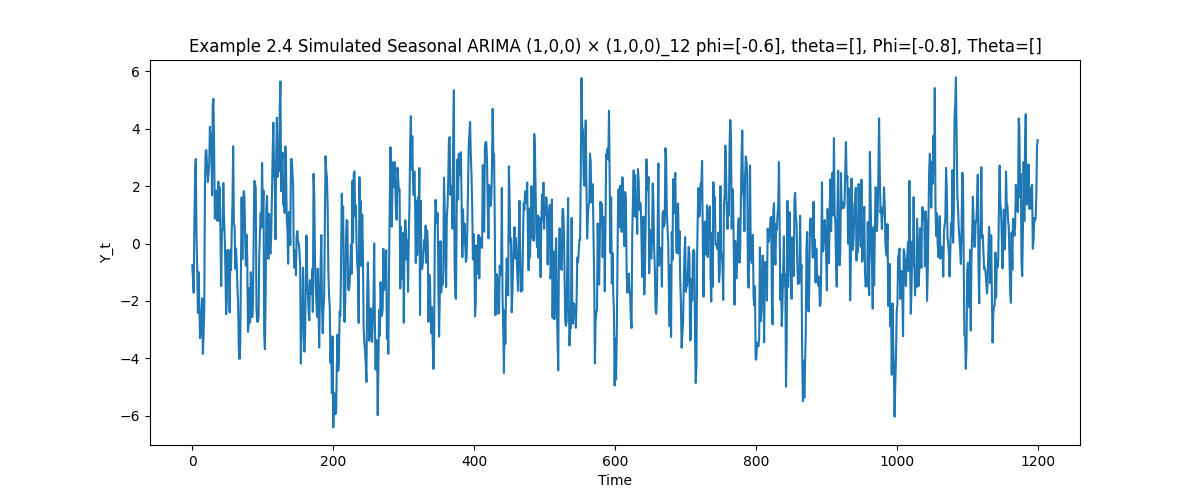
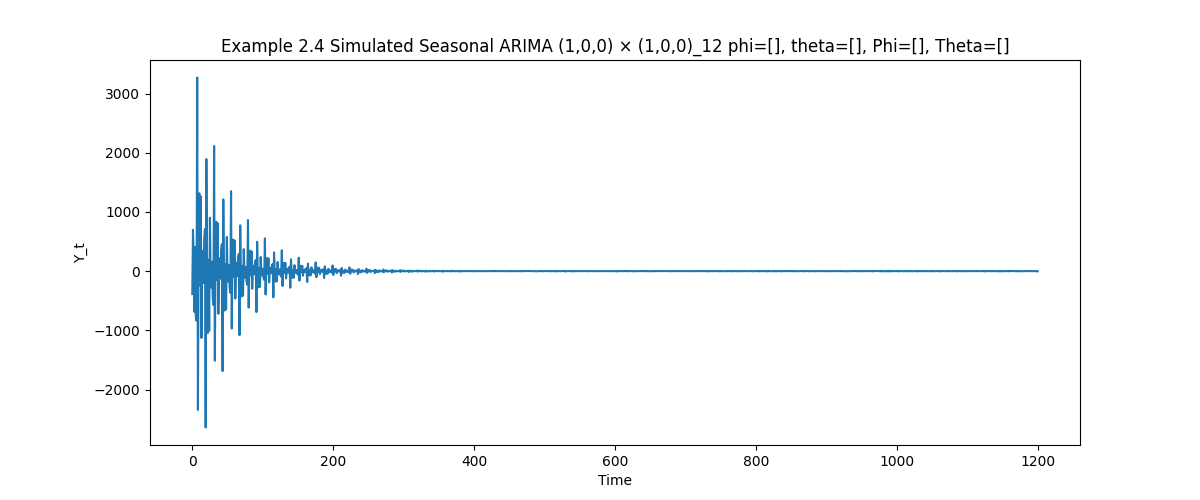
ex2 v3

diff --git a/ex2.py b/ex2.py
@@ -1,53 +1,42 @@
+from statsmodels.tsa.statespace.sarimax import SARIMAX
 import numpy as np
 import matplotlib.pyplot as plt
-from statsmodels.tsa.arima_process import ArmaProcess
 from statsmodels.graphics.tsaplots import plot_acf, plot_pacf
 
-def simulate_seasonal_arima(phi=[1], d=1, theta=[1], Phi=[1], D=1, Theta=[1], s=12, n=500, label=''):
+def simulate_seasonal_arima_sarimax(phi, d, theta, Phi, D, Theta, s, n, label=''):
     """
-    Simulates a seasonal ARIMA (p, d, q) × (P, D, Q)_s model.
+    Simulates a seasonal ARIMA (p, d, q) × (P, D, Q)_s model using SARIMAX.
 
     Parameters:
-    p, d, q  : Non-seasonal ARIMA parameters
-    P, D, Q  : Seasonal ARIMA parameters
-    s        : Seasonal period
-    n        : Number of time steps
+    phi, d, theta  : Non-seasonal ARIMA parameters
+    Phi, D, Theta  : Seasonal ARIMA parameters
+    s              : Seasonal period
+    n              : Number of time steps
+    label          : Label for plots and output files
 
     Returns:
     Simulated time series data.
     """
+    # Define SARIMAX model
+    model = SARIMAX(
+        endog=np.zeros(n),  # Placeholder for endogenous variable
+        order=(len(phi), d, len(theta)),
+        seasonal_order=(len(Phi), D, len(Theta), s),
+        trend='n',
+        enforce_stationarity=False,
+        enforce_invertibility=False
+    )
+
+    # Simulate data
+    params = np.r_[phi, theta, Phi, Theta, 1.0]  # Combine all parameters
+    print(params.shape)
+    print(params)
+    y = model.simulate(params, n)
+
     p = len(phi)
     q = len(theta)
     P = len(Phi)
     Q = len(Theta)
-    
-    # Define AR and MA components
-    phi = [1] + phi  # Non-seasonal AR coefficients
-    theta = [1] + theta  # Non-seasonal MA coefficients
-
-    Phi = [1] + Phi  # Seasonal AR coefficients
-    Theta = [1] + Theta  # Seasonal MA coefficients
-
-    # Generate non-seasonal ARMA process
-    arma_process = ArmaProcess(phi, theta)
-    y = arma_process.generate_sample(nsample=n + (D * s))  # Extra points for differencing
-
-    # Apply differencing
-    def difference(series, interval=1):
-        return series[interval:] - series[:-interval]
-
-    # Apply non-seasonal differencing (d)
-    for _ in range(d):
-        y = difference(y)
-
-    # Apply seasonal differencing (D)
-    for _ in range(D):
-        y = difference(y, s)
-
-    # Generate seasonal ARMA component and add it
-    seasonal_process = ArmaProcess(Phi, Theta)
-    y_seasonal = seasonal_process.generate_sample(nsample=len(y))
-    y += y_seasonal  # Combine seasonal + non-seasonal parts
 
     # Plot the time series
     plt.figure(figsize=(12, 5))
@@ -55,10 +44,8 @@ def simulate_seasonal_arima(phi=[1], d=1, theta=[1], Phi=[1], D=1, Theta=[1], s=
     plt.title(f'{label} Simulated Seasonal ARIMA ({p},{d},{q}) × ({P},{D},{Q})_{s} phi={phi[1:]}, theta={theta[1:]}, Phi={Phi[1:]}, Theta={Theta[1:]}')
     plt.xlabel('Time')
     plt.ylabel('Y_t')
-    #plt.show()
     plt.savefig(f'{label}.png')
     plt.close()
-    
 
     # Plot ACF and PACF
     fig, axes = plt.subplots(1, 2, figsize=(16, 6))
@@ -69,27 +56,26 @@ def simulate_seasonal_arima(phi=[1], d=1, theta=[1], Phi=[1], D=1, Theta=[1], s=
     plt.tight_layout()
     plt.savefig(f'{label}_acf_pacf.png')
     plt.close()
-    #plt.show()
 
     return y
 
 # Example usage:
 # 2.1
-simulate_seasonal_arima(phi=[0.6], d=0, theta=[], Phi=[], D=0, Theta=[], s=12, n=1200, label='Example 2.1')
+simulate_seasonal_arima_sarimax(phi=[0.6], d=0, theta=[], Phi=[], D=0, Theta=[], s=12, n=1200, label='Example 2.1')
 # 2.2
-simulate_seasonal_arima(phi=[], d=0, theta=[], Phi=[-0.9], D=0, Theta=[], s=12, n=1200, label='Example 2.2')
+simulate_seasonal_arima_sarimax(phi=[], d=0, theta=[], Phi=[-0.9], D=0, Theta=[], s=12, n=1200, label='Example 2.2')
 
 # 2.3
-simulate_seasonal_arima(phi=[0.9], d=0, theta=[], Phi=[], D=0, Theta=[-0.7], s=12, n=1200, label='Example 2.3')
+simulate_seasonal_arima_sarimax(phi=[0.9], d=0, theta=[], Phi=[], D=0, Theta=[-0.7], s=12, n=1200, label='Example 2.3')
 
 # 2.4
-simulate_seasonal_arima(phi=[-0.6], d=0, theta=[], Phi=[-0.8], D=0, Theta=[], s=12, n=1200,  label='Example 2.4')
+simulate_seasonal_arima_sarimax(phi=[-0.6], d=0, theta=[], Phi=[-0.8], D=0, Theta=[], s=12, n=1200,  label='Example 2.4')
 
 # 2.5
-simulate_seasonal_arima(phi=[], d=0, theta=[0.4], Phi=[], D=0, Theta=[-0.8], s=12, n=1200, label='Example 2.5')
+simulate_seasonal_arima_sarimax(phi=[], d=0, theta=[0.4], Phi=[], D=0, Theta=[-0.8], s=12, n=1200, label='Example 2.5')
 
 # 2.6
-simulate_seasonal_arima(phi=[], d=0, theta=[-0.4], Phi=[0.7], D=0, Theta=[], s=12, n=1200, label='Example 2.6')
+simulate_seasonal_arima_sarimax(phi=[], d=0, theta=[-0.4], Phi=[0.7], D=0, Theta=[], s=12, n=1200, label='Example 2.6')
 
-#simulate_seasonal_arima(0,0,0,1,0,0,12, 1200)
+#simulate_seasonal_arima_sarimax(0,0,0,1,0,0,12, 1200)
 
